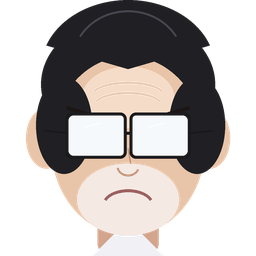
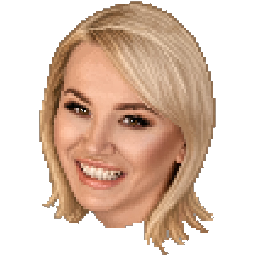
Gra: pixel-artowa twarz CTO z przezroczystym tłem
Wycinka blond włosów bez szarego tła, rysowana ostro i bez owalu
na ośmiornicy i w kokpicie mecha. Formy żeńskie w tekstach
(zabrała, pokonana, pokonaj ją).

diff --git a/gra/gra.js b/gra/gra.js
@@ -1286,6 +1286,48 @@
     fallback(ctx, cx, cy, r);
   }
 
+  var _ctoTint = null;
+  /* Wycinka CTO (przezroczyste tło) — bez owalu, ostre piksele. chinY = miejsce styku z ciałem. */
+  function drawCtoSprite(ctx, img, cx, chinY, dh, fallback, flashing) {
+    dh = dh || 104;
+    var iw = img && (img.naturalWidth || img.width);
+    var ih = img && (img.naturalHeight || img.height);
+    if (!iw || !ih) {
+      fallback(ctx, cx, chinY - dh * 0.42, dh * 0.36);
+      if (flashing) {
+        ctx.save();
+        ctx.fillStyle = 'rgba(255, 36, 50, 0.45)';
+        ctx.beginPath();
+        ctx.ellipse(cx, chinY - dh * 0.42, dh * 0.36, dh * 0.42, 0, 0, Math.PI * 2);
+        ctx.fill();
+        ctx.restore();
+      }
+      return;
+    }
+    var dw = dh * (iw / ih);
+    var dx = Math.round(cx - dw / 2);
+    var dy = Math.round(chinY - dh * 0.78);
+    var tw = Math.round(dw), th = Math.round(dh);
+    ctx.imageSmoothingEnabled = false;
+    ctx.drawImage(img, dx, dy, tw, th);
+    if (flashing) {
+      if (!_ctoTint) _ctoTint = document.createElement('canvas');
+      if (_ctoTint.width !== tw) _ctoTint.width = tw;
+      if (_ctoTint.height !== th) _ctoTint.height = th;
+      var g = _ctoTint.getContext('2d');
+      g.imageSmoothingEnabled = false;
+      g.globalCompositeOperation = 'source-over';
+      g.clearRect(0, 0, tw, th);
+      g.drawImage(img, 0, 0, tw, th);
+      g.globalCompositeOperation = 'source-atop';
+      g.fillStyle = 'rgba(255, 36, 50, 0.55)';
+      g.fillRect(0, 0, tw, th);
+      g.globalCompositeOperation = 'source-over';
+      ctx.drawImage(_ctoTint, dx, dy);
+    }
+    ctx.imageSmoothingEnabled = true;
+  }
+
   /* Wycinka Krzysztofa (już z przezroczystym tłem) — bez owalnego przycięcia, ostre piksele. */
   function drawKrzysztofSprite(ctx, img, cx, collarY, fallback) {
     var iw = img && (img.naturalWidth || img.width);
@@ -1889,7 +1931,7 @@
       ctx.fill();
     }
 
-    drawHead(ctx, imgCto, x, y - 28, 36, drawFallbackCto);
+    drawCtoSprite(ctx, imgCto, x, y - 16, 108, drawFallbackCto, flashing);
 
     if (defeated) {
       /* komiksowy zawrót głowy i dym */
@@ -1899,7 +1941,7 @@
       for (st = 0; st < 3; st++) {
         ang = t * 3 + st * 2.1;
         ctx.beginPath();
-        ctx.arc(x + Math.cos(ang) * 34, y - 58 + Math.sin(ang * 1.3) * 6, 4, 0, Math.PI * 2);
+        ctx.arc(x + Math.cos(ang) * 40, y - 92 + Math.sin(ang * 1.3) * 6, 4, 0, Math.PI * 2);
         ctx.stroke();
       }
       ctx.fillStyle = 'rgba(180,180,190,0.45)';
@@ -1912,7 +1954,7 @@
       return;
     }
 
-    drawBossHp(ctx, x, y - 82);
+    drawBossHp(ctx, x, y - 122);
   }
 
   function drawBossHp(ctx, x, by) {
@@ -2034,13 +2076,13 @@
       ctx.fillRect(x - 90, y - 50, 180, 150);
     }
 
-    drawHead(ctx, imgCto, x, y - 62, 32, drawFallbackCto);
+    drawCtoSprite(ctx, imgCto, x, y - 38, 96, drawFallbackCto, flashing);
 
-    /* hełm-obręcz wokół szyi */
+    /* hełm-obręcz wokół szyi / dolna krawędź kokpitu */
     pix(ctx, x - 22, y - 42, 44, 8, steel);
     pix(ctx, x - 20, y - 41, 8, 6, acc);
 
-    drawBossHp(ctx, x, y - 112);
+    drawBossHp(ctx, x, y - 136);
     ctx.imageSmoothingEnabled = true;
   }
 
@@ -2191,8 +2233,8 @@
           ctx.lineWidth = 4;
           ctx.font = fontTiny(30);
           ctx.fillStyle = '#ff6b6b';
-          ctx.strokeText('CTO zabrał cały budżet!', GAME_W / 2, 220);
-          ctx.fillText('CTO zabrał cały budżet!', GAME_W / 2, 220);
+          ctx.strokeText('CTO zabrała cały budżet!', GAME_W / 2, 220);
+          ctx.fillText('CTO zabrała cały budżet!', GAME_W / 2, 220);
         }
       } else {
         var pulse = 0.18 + 0.14 * Math.abs(Math.sin(time * 10));
@@ -2203,7 +2245,7 @@
         ctx.strokeStyle = 'rgba(0,0,0,0.55)';
         ctx.lineWidth = 4;
         var etap = pendingBoss === 4 ? 'ETAP 4' : 'ETAP 2';
-        var sub = pendingBoss === 4 ? 'CTO w mechucie' : 'Walka z bossem CTO';
+        var sub = pendingBoss === 4 ? 'CTO w mechucie' : 'Walka z CTO';
         ctx.strokeText(etap, GAME_W / 2, GAME_H / 2 - 18);
         ctx.fillText(etap, GAME_W / 2, GAME_H / 2 - 18);
         ctx.font = fontTiny(26);

diff --git a/gra/index.html b/gra/index.html
@@ -218,9 +218,9 @@
         <ul>
           <li><strong>Ruch:</strong> strzałki lub A/D (na telefonie przyciski). Strzał: spacja (10 $, zawsze można).</li>
           <li><strong>Etap 1:</strong> łap banknoty (+100 $) i kawę (+50 pkt, 5 s szybkości Krzysztofa i stałe przyspieszenie gry). Unikaj: L4, Wypowiedzenie, Cięcia Kosztów — 3 życia.</li>
-          <li><strong>Etap 2:</strong> po 1000 $ walka z CTO-ośmiornicą. Pokonany CTO ukradnie cały budżet z sejfu.</li>
+          <li><strong>Etap 2:</strong> po 1000 $ walka z CTO-ośmiornicą. Pokonana CTO ukradnie cały budżet z sejfu.</li>
           <li><strong>Etap 3:</strong> zbierz ponownie, tym razem 3000 $ (trudniej). Na start +1 życie (maks. 3).</li>
-          <li><strong>Etap 4:</strong> CTO wraca w mechucie. Pokonaj go, żeby wygrać.</li>
+          <li><strong>Etap 4:</strong> CTO wraca w mechucie. Pokonaj ją, żeby wygrać.</li>
         </ul>
         <button type="button" class="btn" id="btn-play">Graj</button>
       </div>
@@ -236,7 +236,7 @@
     <div class="overlay" id="overlay-win" hidden>
       <div class="card">
         <h1>Gratulacje, Krzysztofie!</h1>
-        <p class="lead" id="win-lead">Pokonałeś bossa CTO.</p>
+        <p class="lead" id="win-lead">Pokonałeś CTO.</p>
         <p class="result">Wynik końcowy <span class="big" id="win-score">0</span><span id="win-meta"></span></p>
         <button type="button" class="btn" id="btn-again-win">Zagraj ponownie</button>
       </div>
